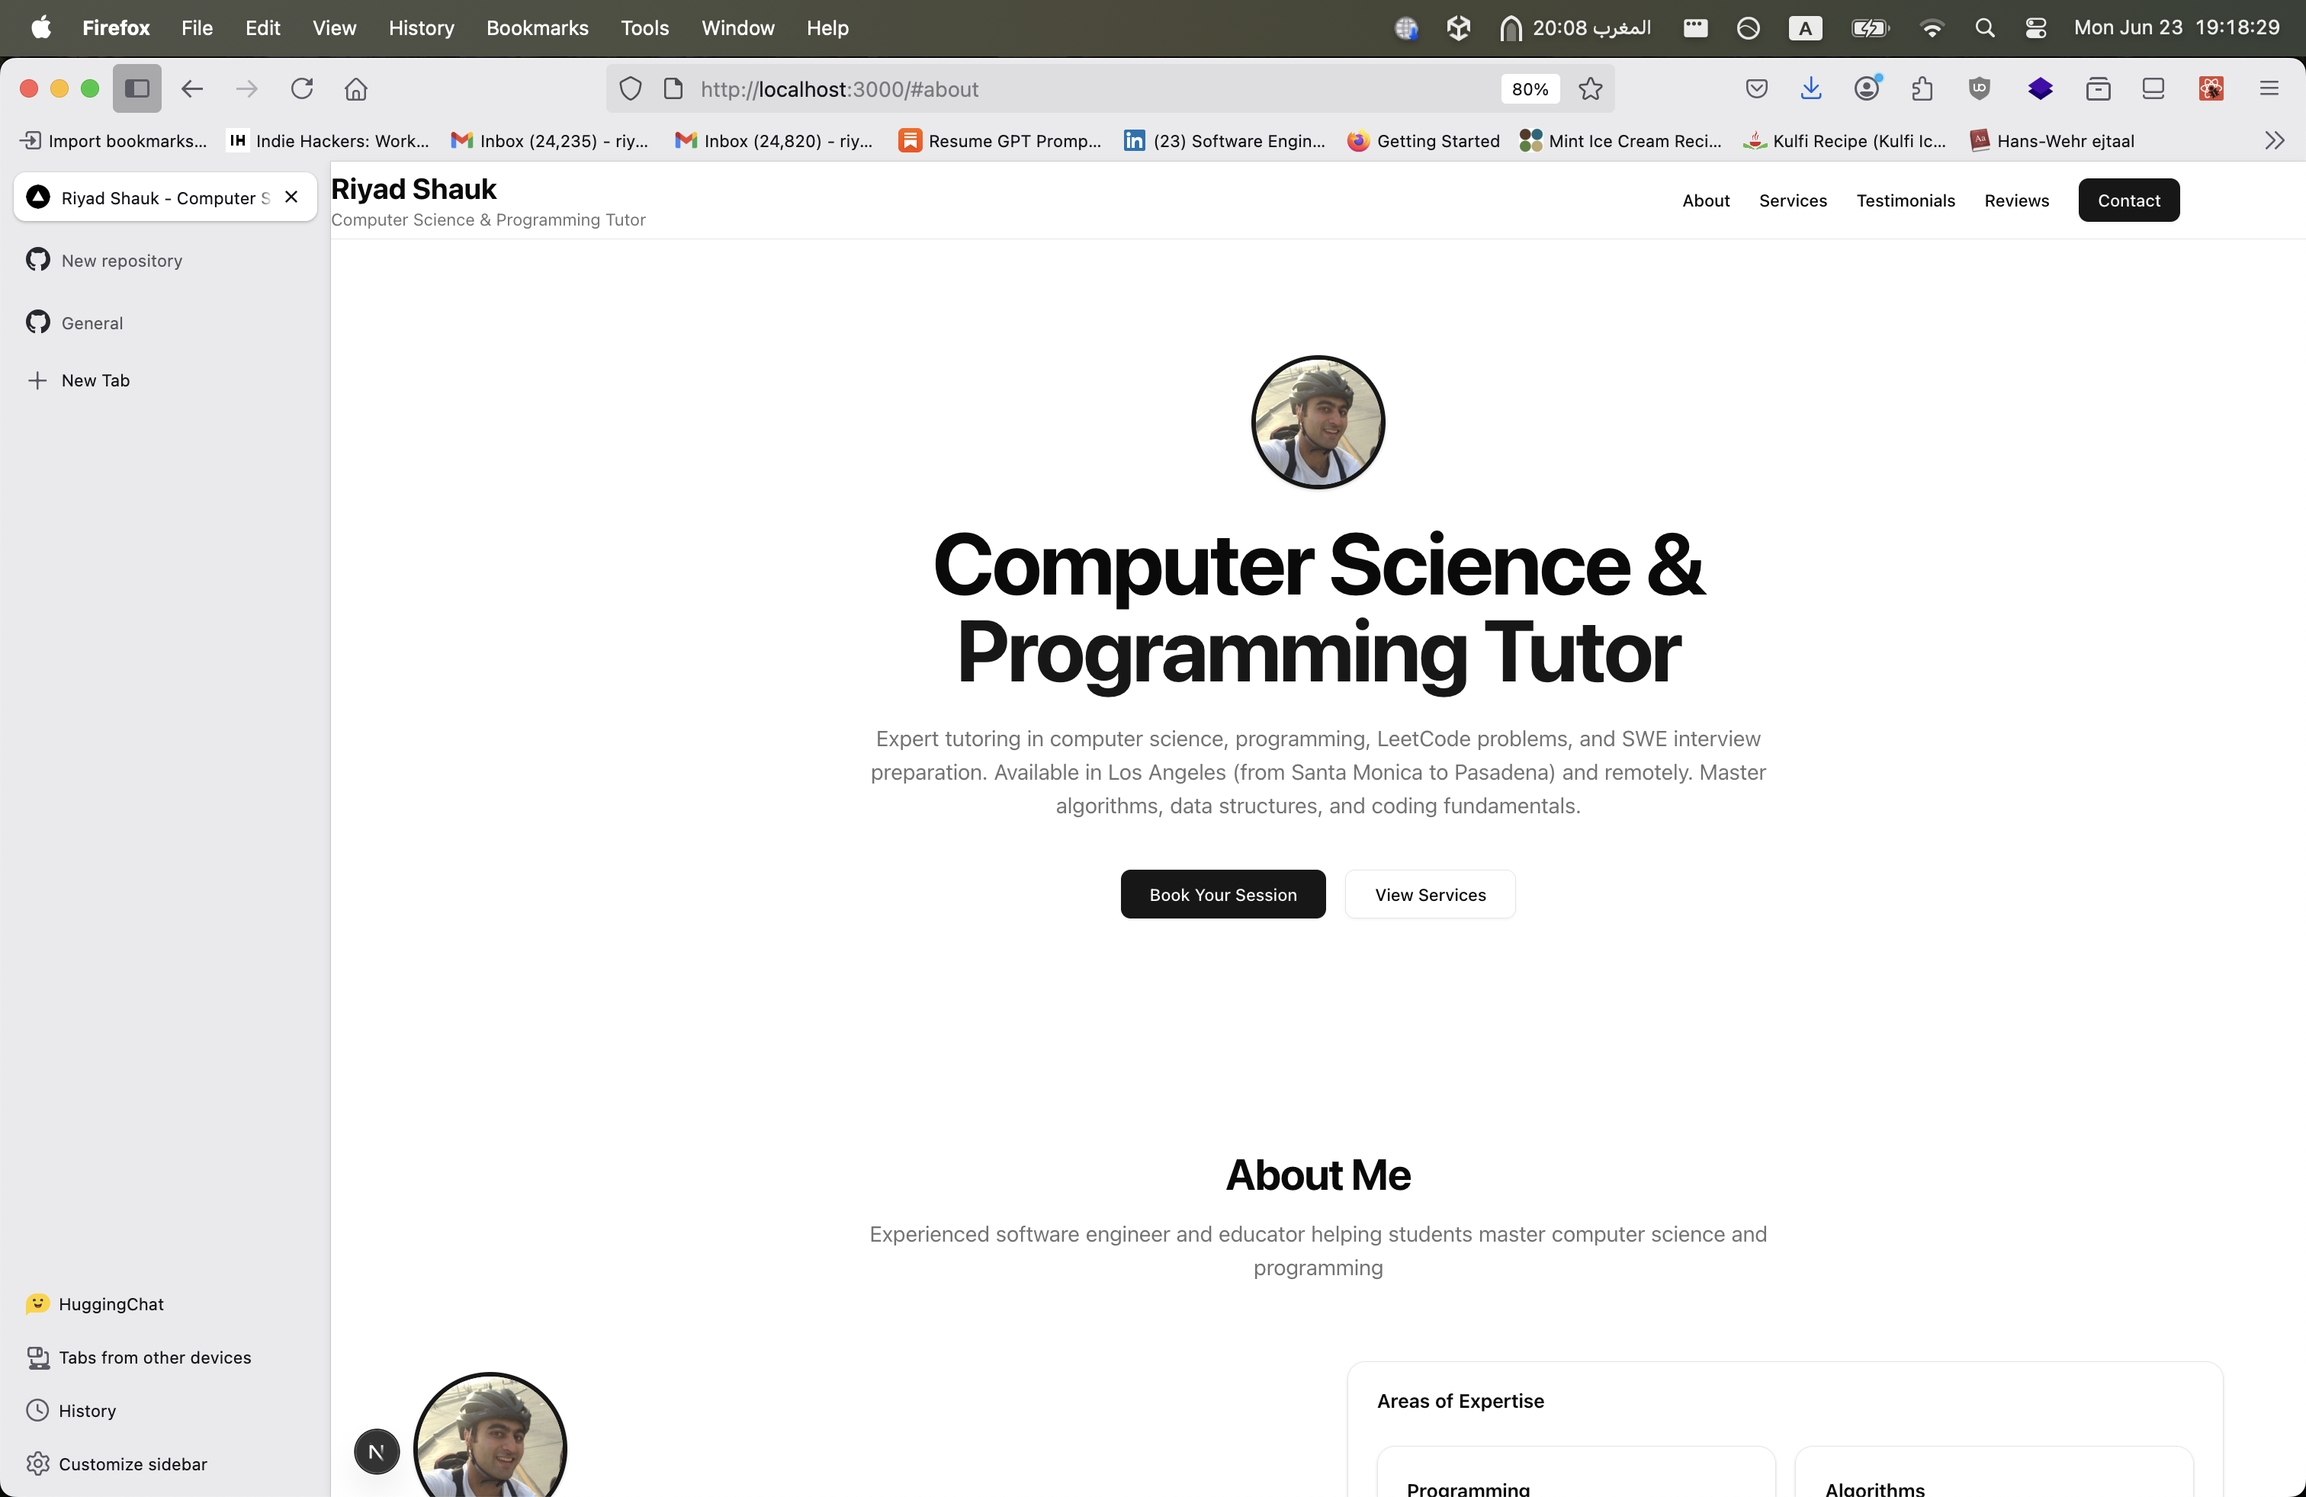
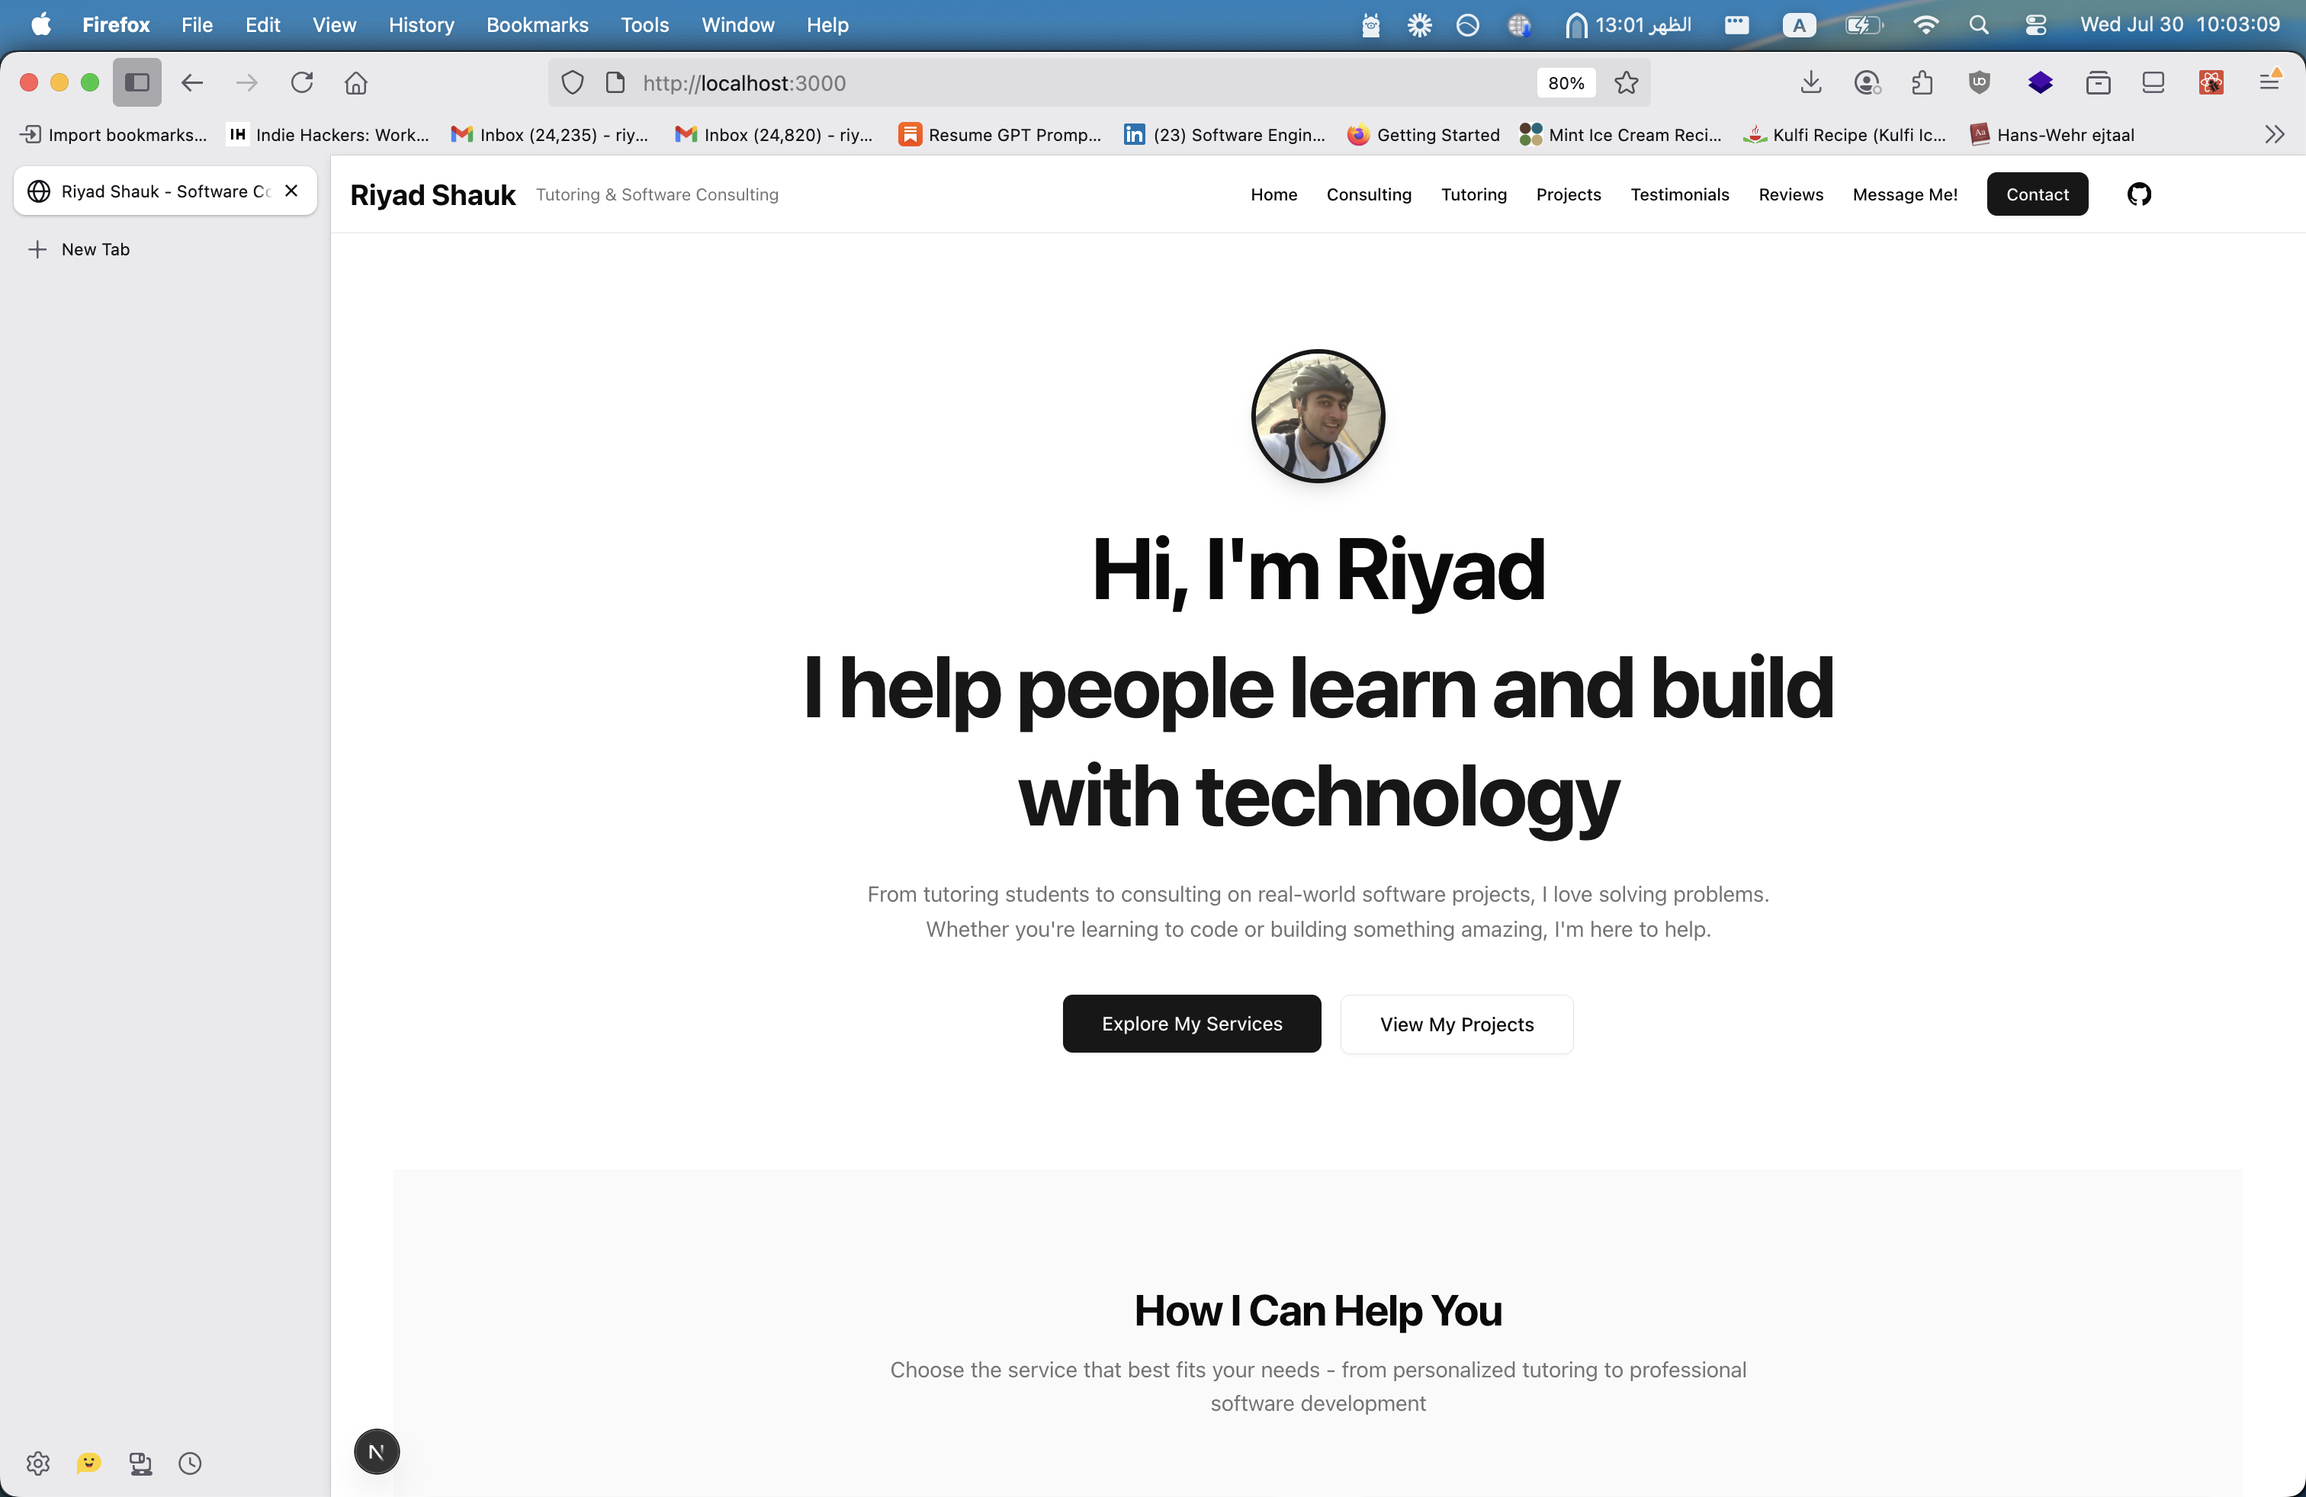
update README and screenshot to reflect latest website

diff --git a/README.md b/README.md
@@ -1,19 +1,23 @@
-# Riyad Shauk - Computer Science Tutoring
+# Riyad Shauk - Computer Science Tutoring & Software Consulting
 
-A modern, SEO-optimized Next.js website for computer science tutoring services, featuring a review system with PostgreSQL database and photo uploads.
+A modern, SEO-optimized full-stack Next.js website featuring computer science tutoring services, software consulting, and a real-time messaging system with PostgreSQL database, authentication, and photo uploads.
 
 <img alt="demo screenshot of the website" src="website-demo-screenshot.png" />
 
 ## Features
 
-- **SEO Optimized**: Single-page website with structured data and local SEO for Los Angeles
+- **Multi-Page Application**: Dedicated pages for tutoring, consulting, and messaging
+- **Real-Time Messaging System**: Secure chat between students and tutors with authentication
+- **User Authentication**: Secure login/register system with session management
 - **Review System**: Submit and display reviews with optional photo uploads
+- **SEO Optimized**: Structured data and local SEO for Los Angeles
 - **Modern UI**: Built with ShadCN UI components and Tailwind CSS
 - **Database**: PostgreSQL with Drizzle ORM for data persistence
 - **Responsive**: Works seamlessly on desktop and mobile devices
 - **Photo Uploads**: Reviewers can optionally upload photos with their reviews
 - **Local SEO**: Optimized for Los Angeles area
 - **Environment Management**: Support for multiple environments with special character handling
+- **Testing**: Comprehensive test suite with Jest and React Testing Library
 
 ## Tech Stack
 
@@ -24,6 +28,9 @@ A modern, SEO-optimized Next.js website for computer science tutoring services, 
 - **Package Manager**: pnpm
 - **File Uploads**: Local disk storage with Next.js API routes
 - **Environment**: Zod validation with Next.js environment conventions
+- **Testing**: Jest + React Testing Library
+- **Authentication**: Custom session-based auth system
+- **Real-time Features**: Server-side messaging with real-time updates
 
 ## Getting Started
 
@@ -75,6 +82,30 @@ A modern, SEO-optimized Next.js website for computer science tutoring services, 
    ```
 
 Open [http://localhost:3000](http://localhost:3000) with your browser to see the result.
+
+## Pages & Features
+
+### Home Page (`/`)
+- Landing page with overview of services
+- Navigation to tutoring, consulting, and messaging
+- SEO optimized with structured data
+
+### Tutoring Page (`/tutoring`)
+- Detailed tutoring services information
+- Review submission and display system
+- Contact form for booking sessions
+- Local SEO for Los Angeles area
+
+### Consulting Page (`/consulting`)
+- Software development and consulting services
+- MVP development, business websites, automation tools
+- Project discussion contact form
+
+### Messaging System (`/messaging`)
+- Real-time chat between students and tutors
+- User authentication required
+- Conversation management
+- Message history and read receipts
 
 ## Troubleshooting
 
@@ -138,6 +169,9 @@ NODE_ENV=development
 # Email configuration (optional)
 EMAIL_USER=your-email@gmail.com
 EMAIL_PASS=your-app-password
+
+# JWT Secret (for authentication)
+JWT_SECRET=your-secret-key-here
 ```
 
 ### Special Character Support
@@ -208,17 +242,61 @@ pnpm run db:reset
 
 ### Database Schema
 
-The application uses a single `reviews` table with the following structure:
+The application uses multiple tables for comprehensive functionality:
 
+#### Reviews Table
 - `id`: Unique identifier
 - `name`: Reviewer's name
 - `email`: Reviewer's email
+- `role`: Reviewer's role (optional)
+- `subject`: Subject being reviewed (optional)
 - `rating`: Rating (1-5 stars)
-- `comment`: Review text
+- `review`: Review text
 - `verified`: Whether the review has been verified (default: false)
 - `photoUrl`: Optional path to uploaded photo
 - `createdAt`: Timestamp of review creation
 - `updatedAt`: Timestamp of last update
+
+#### Users Table
+- `id`: Unique identifier
+- `email`: User's email (unique)
+- `name`: User's name
+- `passwordHash`: Hashed password
+- `role`: User role ('admin' for tutor, 'client' for student)
+- `isVerified`: Whether email is verified
+- `avatarUrl`: Optional avatar image URL
+- `lastLogin`: Last login timestamp
+- `createdAt`: Account creation timestamp
+- `updatedAt`: Last update timestamp
+
+#### Sessions Table
+- `id`: Session identifier
+- `userId`: Reference to user
+- `token`: Session token
+- `expiresAt`: Session expiration
+- `createdAt`: Session creation timestamp
+- `updatedAt`: Last update timestamp
+
+#### Conversations Table
+- `id`: Conversation identifier
+- `name`: Conversation name (for group chats)
+- `type`: Conversation type ('private' or 'group')
+- `createdAt`: Creation timestamp
+- `updatedAt`: Last update timestamp
+
+#### Messages Table
+- `id`: Message identifier
+- `conversationId`: Reference to conversation
+- `senderId`: Reference to user who sent the message
+- `content`: Message content
+- `messageType`: Type of message ('text', 'image', 'file')
+- `metadata`: Additional message data (JSON)
+- `createdAt`: Message creation timestamp
+- `updatedAt`: Last update timestamp
+
+#### Supporting Tables
+- `conversationParticipants`: Links users to conversations
+- `messageReads`: Tracks message read status
 
 ### Database Setup Script
 
@@ -237,8 +315,20 @@ riyadshauk.com/
 ├── src/
 │   ├── app/                    # Next.js App Router
 │   │   ├── api/               # API routes
+│   │   │   ├── auth/          # Authentication endpoints
+│   │   │   │   ├── login/     # Login endpoint
+│   │   │   │   ├── logout/    # Logout endpoint
+│   │   │   │   ├── register/  # Registration endpoint
+│   │   │   │   └── me/        # Current user info
+│   │   │   ├── conversations/ # Conversation management
+│   │   │   ├── messages/      # Message handling
 │   │   │   ├── reviews/       # GET reviews endpoint
-│   │   │   └── submit-review/ # POST review submission
+│   │   │   ├── submit-review/ # POST review submission
+│   │   │   ├── users/         # User management
+│   │   │   └── setup-admin/   # Admin user setup
+│   │   ├── tutoring/          # Tutoring page
+│   │   ├── consulting/        # Consulting page
+│   │   ├── messaging/         # Messaging system page
 │   │   ├── favicon.ico        # Favicon
 │   │   ├── globals.css        # Global styles
 │   │   ├── layout.tsx         # Root layout with metadata
@@ -253,13 +343,25 @@ riyadshauk.com/
 │   │   │   ├── select.tsx
 │   │   │   ├── separator.tsx
 │   │   │   └── textarea.tsx
-│   │   ├── ReviewForm.tsx     # Review submission form with photo upload
-│   │   └── ReviewsDisplay.tsx # Reviews display component
+│   │   ├── AuthContext.tsx    # Authentication context
+│   │   ├── AuthForm.tsx       # Login/register form
+│   │   ├── Chat.tsx           # Chat interface
+│   │   ├── ConversationList.tsx # Conversation list
+│   │   ├── LoginForm.tsx      # Login form component
+│   │   ├── MessagingApp.tsx   # Main messaging app
+│   │   ├── MessagingContext.tsx # Messaging context
+│   │   ├── NavBar.tsx         # Navigation bar
+│   │   ├── ReviewForm.tsx     # Review submission form
+│   │   ├── ReviewsDisplay.tsx # Reviews display component
+│   │   ├── Footer.tsx         # Footer component
+│   │   └── __tests__/         # Component tests
 │   ├── db/                   # Database configuration
 │   │   ├── index.ts          # Database client setup
-│   │   └── schema.ts         # Database schema definition
+│   │   ├── schema.ts         # Database schema definition
+│   │   └── auth-schema.ts    # Authentication schema
 │   └── lib/                  # Utility functions
-│       ├── env.ts            # Environment configuration with validation
+│       ├── auth.ts           # Authentication utilities
+│       ├── env.ts            # Environment configuration
 │       └── utils.ts          # Helper functions
 ├── public/                   # Static assets
 │   ├── uploads/             # User uploaded photos
@@ -269,10 +371,15 @@ riyadshauk.com/
 ├── drizzle/                 # Database migrations
 │   ├── 0000_right_the_phantom.sql
 │   ├── 0001_messy_rick_jones.sql
+│   ├── 0002_messaging_system.sql
+│   ├── 0003_add_authentication.sql
 │   └── meta/               # Migration metadata
 ├── scripts/                 # Setup and utility scripts
 │   ├── setup-database.sh   # Cross-platform database setup
-│   └── env-helper.sh       # Environment management utilities
+│   ├── env-helper.sh       # Environment management utilities
+│   ├── deploy.sh           # Deployment script
+│   ├── start-production.sh # Production startup script
+│   └── run-migrations.sh   # Migration runner
 ├── components.json         # ShadCN UI configuration
 ├── drizzle.config.ts       # Drizzle ORM configuration
 ├── .env.example            # Environment variables template
@@ -280,23 +387,47 @@ riyadshauk.com/
 ├── next.config.ts          # Next.js configuration
 ├── package.json            # Dependencies and scripts
 ├── tailwind.config.ts      # Tailwind CSS configuration
-└── tsconfig.json           # TypeScript configuration
+├── tsconfig.json           # TypeScript configuration
+├── jest.setup.js           # Jest test setup
+└── eslint.config.mjs       # ESLint configuration
 ```
 
 ## API Endpoints
 
-### GET /api/reviews
-Returns all reviews from the database.
+### Authentication
+- **POST /api/auth/register** - User registration
+- **POST /api/auth/login** - User login
+- **POST /api/auth/logout** - User logout
+- **GET /api/auth/me** - Get current user info
 
-**Response:**
+### Messaging System
+- **GET /api/conversations** - Get user's conversations
+- **POST /api/conversations** - Create new conversation
+- **GET /api/messages** - Get messages for a conversation
+- **POST /api/messages** - Send a new message
+- **POST /api/conversations/start-with-admin** - Start conversation with admin
+
+### Reviews System
+- **GET /api/reviews** - Get all reviews
+- **POST /api/submit-review** - Submit new review with photo upload
+
+### User Management
+- **GET /api/users** - Get users (admin only)
+- **POST /api/setup-admin** - Setup admin user
+
+### Example API Responses
+
+#### GET /api/reviews
 ```json
 [
   {
-    "id": 1,
+    "id": "uuid",
     "name": "John Doe",
     "email": "john@example.com",
+    "role": "Student",
+    "subject": "Python Programming",
     "rating": 5,
-    "comment": "Great tutor!",
+    "review": "Great tutor!",
     "verified": true,
     "photoUrl": "/uploads/review-1.jpg",
     "createdAt": "2024-01-01T00:00:00.000Z"
@@ -304,14 +435,14 @@ Returns all reviews from the database.
 ]
 ```
 
-### POST /api/submit-review
-Submits a new review with optional photo upload.
-
+#### POST /api/submit-review
 **Request:** `multipart/form-data`
 - `name`: Reviewer's name (required)
 - `email`: Reviewer's email (required)
+- `role`: Reviewer's role (optional)
+- `subject`: Subject being reviewed (optional)
 - `rating`: Rating 1-5 (required)
-- `comment`: Review text (required)
+- `review`: Review text (required)
 - `photo`: Image file (optional)
 
 **Response:**
@@ -321,6 +452,29 @@ Submits a new review with optional photo upload.
   "message": "Review submitted successfully"
 }
 ```
+
+## Testing
+
+The project includes comprehensive testing with Jest and React Testing Library:
+
+```bash
+# Run all tests
+pnpm test
+
+# Run tests in watch mode
+pnpm test:watch
+
+# Run tests with coverage
+pnpm test:coverage
+
+# Run tests in CI mode
+pnpm test:ci
+```
+
+### Test Coverage
+- Component tests in `src/components/__tests__/`
+- Utility tests in `src/lib/__tests__/`
+- Coverage threshold: 70% for branches, functions, lines, and statements
 
 ## Deployment
 
@@ -352,6 +506,17 @@ For cloud deployment (Vercel, Railway, etc.):
 1. Set the environment variables in your deployment platform's dashboard
 2. Ensure the `DATABASE_URL` points to your production database
 3. For photo uploads, consider using cloud storage (S3, Cloudinary) instead of local disk
+4. Set up proper JWT secrets for authentication
+
+### Production Scripts
+
+```bash
+# Deploy to production
+./scripts/deploy.sh
+
+# Start production server
+./scripts/start-production.sh
+```
 
 ## Development
 
@@ -361,6 +526,7 @@ For cloud deployment (Vercel, Railway, etc.):
 2. **UI Components**: Add to `src/components/` or `src/components/ui/`
 3. **API Routes**: Create new files in `src/app/api/`
 4. **Styling**: Use Tailwind CSS classes and ShadCN components
+5. **Testing**: Add tests in corresponding `__tests__/` directories
 
 ### Code Style
 
@@ -368,6 +534,7 @@ For cloud deployment (Vercel, Railway, etc.):
 - ESLint for code quality
 - Prettier for code formatting
 - Conventional commit messages
+- Comprehensive test coverage
 
 ## License
 
